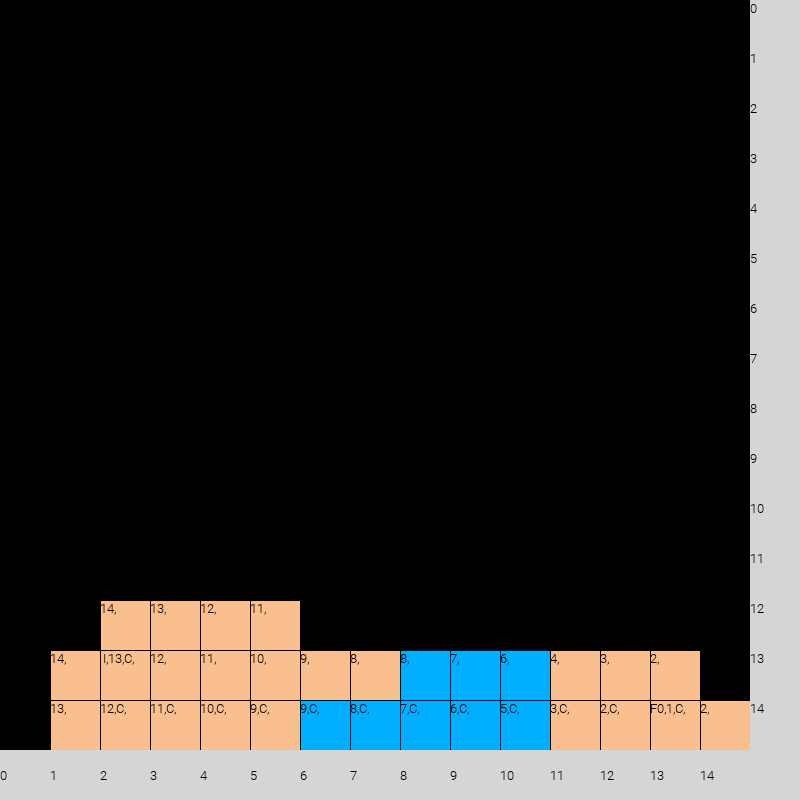
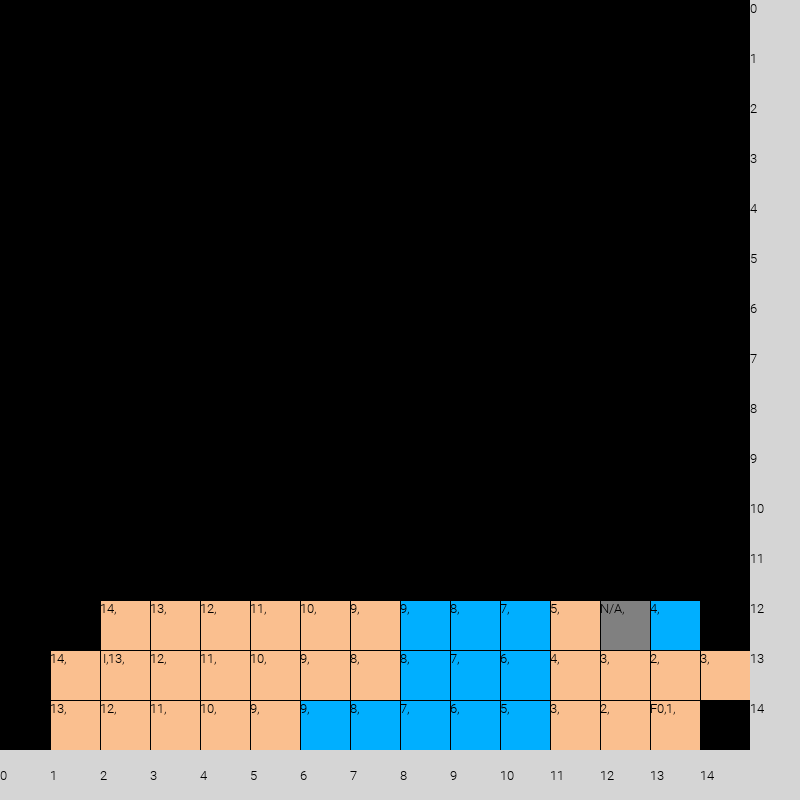
a* v2 ahora si por dios

Changed region(s): [[0.375, 0.75, 0.875, 0.8125], [0.875, 0.8125, 0.9375, 0.9375]]

diff --git a/Proyecto 1/LibsGameV3/MazeAgentV3.2.py b/Proyecto 1/LibsGameV3/MazeAgentV3.2.py
@@ -447,55 +447,52 @@ class Agent(MovsTerrainCosts, Stage, Movement):  # Create the class Agent
         # Crea las copias
         copyMem = memoriasDeCaminoYCostoYAcumulado[j][::]  # Copia base
         x = len(memoriasDeCaminoYCostoYAcumulado[j]) - 1  # last index memory
-        # print(f"ValueADuplicar{copyMem[x]}")
+        if len(validRoads) > 1:
+            print(f"ValueADuplicar{copyMem[x]}")
+        else:
+            print(f"Ampliar Camino{copyMem[x]}")
         for i, Road in enumerate(validRoads):
+            print(i)
             # Copia del primero elemento
             # var = (Road[0], Road[1], copyMem[x][2] + Road[0])
-            var = (Road[0], Road[1], copyMem[x][2] + costs[i])
-            # print(f"value a insertar{var}")
+            var = (Road[0], Road[1], copyMem[x][2] + costs[i], costs[i])
+            print(f"value a insertar{var}")
             if i == 0:
                 memoriasDeCaminoYCostoYAcumulado[j].append(var)
             else:
                 copyyMem = copyMem[::]
                 copyyMem.append(var)
+                print(copyyMem)
                 memoriasDeCaminoYCostoYAcumulado.append(copyyMem)
         # print(f"Mem{memoriasDeCaminoYCostoYAcumulado}")
 
     def aEstrella(self, InicialPoint, FinalPoint):
         # [
-        # [(Costo,coord,Acumulado),(Costo,coord,Acumulado)],
-        # [(Costo,coord,Acumulado),(Costo,coord,Acumulado)]
+        # [(f(x),coord,CostoAcumulado,CostoParticular),(f(x),coord,CostoAcumulado,CostoParticular)],
+        # [(f(x),coord,CostoAcumulado,CostoParticular),(f(x),coord,CostoAcumulado,CostoParticular)],
         # ]
         memoriasDeCaminoYCostoYAcumulado = [[(0, InicialPoint, 0)]]
         print(memoriasDeCaminoYCostoYAcumulado)
         z = 0
         IndicesAExplorar = [0]
+        caminosFinalizados = []
+        caminosEntroncados = []
         while True:
-            # print("=================================================================")
-            # print(f"j={z}")
-            for j in IndicesAExplorar:
-                # print("------------------------------------------------------------")
-                if memoriasDeCaminoYCostoYAcumulado[j][len(memoriasDeCaminoYCostoYAcumulado[j]) - 1][1] == FinalPoint:
-                    # agregar camino a otro arreglo y  ponerle un bloqueo como una variable aleatoria false none algo asi
-                    print(f"BestSolutions")
-                    for x in IndicesAExplorar:
-                        print(f"mem={memoriasDeCaminoYCostoYAcumulado[x]}")
 
-                    print("Maze Solved!")
-                    # print(f"Camino:{memoriasDeCaminoYCostoYAcumulado[j]}")
-                    self.memoryCells = memoriasDeCaminoYCostoYAcumulado[j]
-                    self.cost = memoriasDeCaminoYCostoYAcumulado[j][len(memoriasDeCaminoYCostoYAcumulado[j]) - 1][2]
-                    print(
-                        f"Coste:{memoriasDeCaminoYCostoYAcumulado[j][len(memoriasDeCaminoYCostoYAcumulado[j]) - 1][2]}")
-                    copyMem = []
-                    for memory in self.memoryCells:
-                        # print(memory)
-                        copyMem.append(memory[1])
-                        self.explorePosition(memoriasDeCaminoYCostoYAcumulado, coords=memory[1], finalCords=FinalPoint)
-                        self.addStageLetras(memory[1][0], memory[1][1], "C")
-                    self.memoryCells = copyMem
-                    self.updateStage()
-                    return
+            # >>>>EXPLORACION<<<<
+            # Imprimir memoria con los indices que se exploraran
+            print("\nIndices a explorar")
+            for x in IndicesAExplorar:
+                print(f"mem1.{x}={memoriasDeCaminoYCostoYAcumulado[x]}")
+            repiteProfundiad = False
+            for j in IndicesAExplorar:
+                print(caminosFinalizados)
+                print(f"------------------Explorando indice {j}------------------")
+                if memoriasDeCaminoYCostoYAcumulado[j][len(memoriasDeCaminoYCostoYAcumulado[j]) - 1][1] == FinalPoint:
+                    # agregar camino a otro arreglo
+                    caminosFinalizados.append(memoriasDeCaminoYCostoYAcumulado[j][::])
+                    # Eliminar de los validos
+                    IndicesAExplorar.remove(j)
                 else:
                     # print(f"Explorando en memoria:{memoriasDeCaminoYCostoYAcumulado[j]}")
                     # Exploracion de los caminos en las ultimas coordenadas de cada camino
@@ -507,36 +504,71 @@ class Agent(MovsTerrainCosts, Stage, Movement):  # Create the class Agent
                                                              )
                     # print(f"Explorados:{explorados} de mem {j}")
                     # Optine los menos costosos
-                    validRoads, costs = self.giveOptimalOptions(explorados, costs, FinalPoint)
-                    # print(f"MenosCostosos de los validos:{validRoads}  de mem {j}")
-                    # si el costo es el actual va a agregar los caminos y rompera el ciclo y volvera a evaluar
-                    if validRoads[0][0] == memoriasDeCaminoYCostoYAcumulado[j][LastIndex][0]:
-                        # print("Profundidad +")
-                        self.CreaCopias(memoriasDeCaminoYCostoYAcumulado, j, validRoads, costs)
-                        print(f"mem ramificado por mismo coste={memoriasDeCaminoYCostoYAcumulado}")
-                        break
-                    # Crea las copias
-                    self.CreaCopias(memoriasDeCaminoYCostoYAcumulado, j, validRoads, costs)
-                    print(f"mem={memoriasDeCaminoYCostoYAcumulado}")
-            # arreglo con los mejores candidatos
-            # Obtener el menor es decir mejor candidato
-            menorCosto = memoriasDeCaminoYCostoYAcumulado[0][len(memoriasDeCaminoYCostoYAcumulado[0]) - 1][0]
+                    if len(explorados) != 0:
+                        validRoads, costs = self.giveOptimalOptions(explorados, costs, FinalPoint)
+                        # print(f"MenosCostosos de los validos:{validRoads}  de mem {j}")
+
+                        # EN CASO DE QUE EL COSTO SEA IGUAL , SE APLICARA PROFUNDIAD SI CRECER LAS DEMAS RAMAS
+                        # detectar si abra profunidad  PARA BLOQUEAR EL CRECIMIENTO DE LAS RAMAS
+                        for indicesElectos in IndicesAExplorar:
+                            LastIndexxx = len(memoriasDeCaminoYCostoYAcumulado[indicesElectos]) - 1
+                            if validRoads[0][0] == memoriasDeCaminoYCostoYAcumulado[indicesElectos][LastIndexxx][0]:
+                                repiteProfundiad = True
+                        # EN CASO DE PROFUNIDAD SE CRECE LA RAMA
+                        if repiteProfundiad and validRoads[0][0] == memoriasDeCaminoYCostoYAcumulado[j][LastIndex][0]:
+                            print("Profundidad +")
+                            self.CreaCopias(memoriasDeCaminoYCostoYAcumulado, j, validRoads, costs)
+                            # print(f"mem ramificado por mismo coste={memoriasDeCaminoYCostoYAcumulado}")
+                        # En caso de que no se detecte pronfuidad ejecutara el crecimiento de cada rama
+                        if not repiteProfundiad:
+                            # Crea las copias
+                            self.CreaCopias(memoriasDeCaminoYCostoYAcumulado, j, validRoads, costs)
+                    else:
+                        caminosEntroncados.append(memoriasDeCaminoYCostoYAcumulado[j][::])
+            print("=======================Elecion de indices=================================")
+            print(f"z={z}")
+            # Imprimir memoria con los indices que se exploraran
+            for x in IndicesAExplorar:
+                print(f"mem0={memoriasDeCaminoYCostoYAcumulado[x]}")
+            # >>>>>ARREGLO DE MEJORES CANDIDATOS<<<<<
+            exploracion = 0  # 0 = f(x)     2 = costAcumulado     3 = costoParticular
+            # Obtener el menor es decir mejor candidato que no este en caminos finalizados
+            menorCosto = 0
             for i, mems in enumerate(memoriasDeCaminoYCostoYAcumulado):
-                if mems[len(mems) - 1][0] < menorCosto:
-                    menorCosto = mems[len(mems) - 1][0]
-            # print(f"mem={memoriasDeCaminoYCostoYAcumulado}")
+                if not caminosFinalizados.__contains__(mems):
+                    menorCosto = mems[len(mems) - 1][exploracion]  # F(X)
+                    break
+            print(f"menorCosto={menorCosto}")
+            for i, mems in enumerate(memoriasDeCaminoYCostoYAcumulado):
+                if mems[len(mems) - 1][exploracion] < menorCosto  and not caminosFinalizados.__contains__(mems):
+                    menorCosto = mems[len(mems) - 1][exploracion]  # F(X)
             IndicesAExplorar.clear()
             # print(f"MenorCosto:{menorCosto}")
             # Obtener indices a explorar
             for i, mems in enumerate(memoriasDeCaminoYCostoYAcumulado):
-                if mems[len(mems) - 1][0] == menorCosto:
+                if mems[len(mems) - 1][exploracion] == menorCosto and not caminosFinalizados.__contains__(mems) and not caminosEntroncados.__contains__(mems):
                     IndicesAExplorar.append(i)
-            # print(IndicesAExplorar)
-            # Imprimir memoria con los indices que se exploraran
-            # for x in IndicesAExplorar:
-            # print(f"mem={memoriasDeCaminoYCostoYAcumulado[x]}")
+            print(f"IndicesAExplorar{IndicesAExplorar}")
+            if len(IndicesAExplorar) == 0:
+                break
             z += 1
-            self.updateStage()
+        print("MazeSolved")
+        self.updateStage()
+        # Buscar el camino con menor coste
+        print(caminosFinalizados)
+        ValorHipotetico = caminosFinalizados[0] # Suponemos que el camino es el menor
+        cost = ValorHipotetico[len(ValorHipotetico)-1][2]
+        for finalRoad in caminosFinalizados:
+            if finalRoad[len(finalRoad)-1][2] < ValorHipotetico[len(ValorHipotetico)-1][2]:
+                ValorHipotetico = finalRoad
+                cost = finalRoad[len(finalRoad)-1][2]
+        memory = []
+        for mem in ValorHipotetico:
+            memory.append(mem[1])
+        self.memoryCells = memory
+        print(f"Camino:{self.memoryCells}")
+        print(f"Costo:{cost}")
+        return
 
     def unHideActualPosition(self):
         self.unHide(self.ActualCords)
@@ -631,9 +663,9 @@ P = (13, 'D')
 agent1 = Agent("humano", TypeAgent.humano, InitalCords=(14, 'C'), FinalCords=(7, 'H'),
                PreFinalCords=((15, 'N'), (7, 'H'), (3, 'O')), stageText=readFile("../lab5.txt"), Hide=True)
 
-# agent1.aEstrella(giveCords(HI), giveCords(T))
-# agent1.aEstrella(giveCords(T), giveCords(P))
-# agent1.aEstrella(giveCords(HI), giveCords(S))
+#agent1.aEstrella(giveCords(HI), giveCords(T))
+#agent1.aEstrella(giveCords(T), giveCords(P))
+#agent1.aEstrella(giveCords(HI), giveCords(S))
 # agent1.aEstrella(giveCords(S), giveCords(P))
 agent1.aEstrella(giveCords(HI), giveCords(K))
 # agent1.aEstrella(giveCords(K), giveCords(P))
